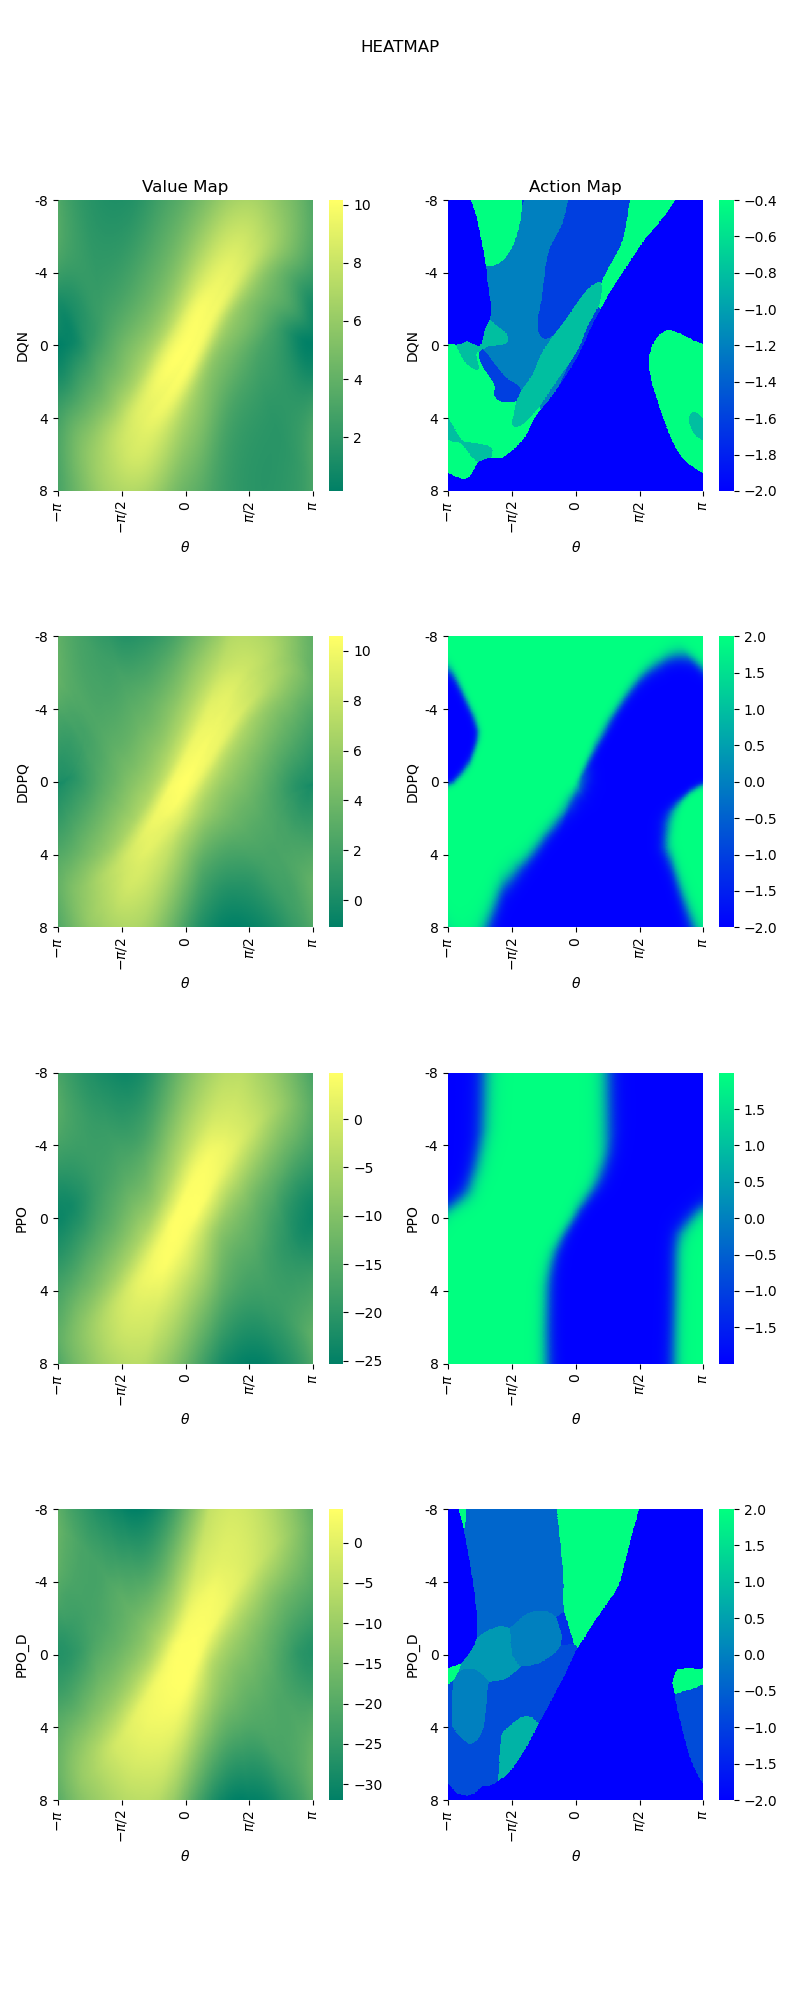
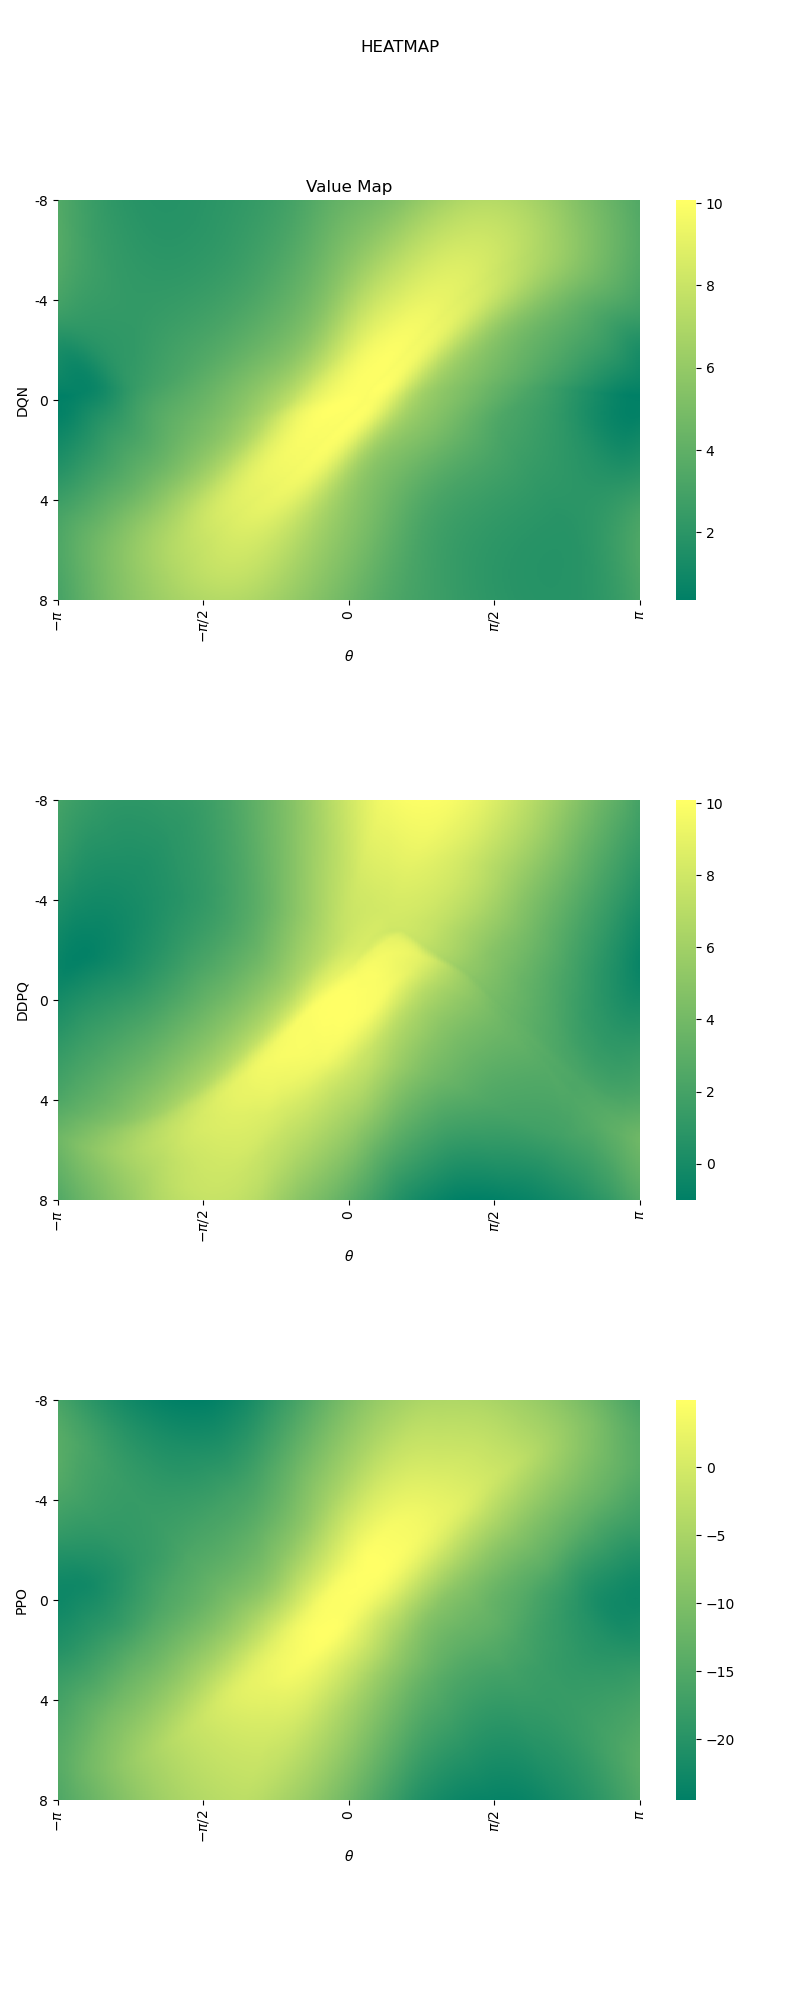
remove ppod

diff --git a/plot_heatmap.py b/plot_heatmap.py
@@ -34,11 +34,11 @@ def dqn_heatmap():
     net.load_state_dict(torch.load('param/dqn_net_params.pkl'))
     q = net(state)
     value_map = q.max(1)[0].view(y_pxl, x_pxl).detach().numpy()
-    action_map = q.max(1)[1].view(y_pxl, x_pxl).detach().numpy() / 10 * 4 - 2
+    # action_map = q.max(1)[1].view(y_pxl, x_pxl).detach().numpy() / 10 * 4 - 2
 
-    format(plt.subplot(421),value_map, algo_name= 'DQN', title ="Value Map")
+    format(plt.subplot(311),value_map, algo_name= 'DQN', title ="Value Map")
     # sns.heatmap(value_map, cmap="YlGnBu", linewidths=0.5, ax=plt.subplot(421))
-    format(plt.subplot(422),action_map, algo_name= 'DQN', title ="Action Map",cmap= plt.cm.winter)
+    # format(plt.subplot(322),action_map, algo_name= 'DQN', title ="Action Map",cmap= plt.cm.winter)
 
 def ddpg_heatmap():
     from ddpg import ActorNet, CriticNet
@@ -48,14 +48,14 @@ def ddpg_heatmap():
 
     anet = ActorNet()
     anet.load_state_dict(torch.load('param/ddpg_anet_params.pkl'))
-    action_map = anet(state).view(y_pxl, x_pxl).detach().numpy()
+    # action_map = anet(state).view(y_pxl, x_pxl).detach().numpy()
 
     cnet = CriticNet()
     cnet.load_state_dict(torch.load('param/ddpg_cnet_params.pkl'))
     value_map = cnet(state, anet(state)).view(y_pxl, x_pxl).detach().numpy()
 
-    format(plt.subplot(423), value_map, algo_name= 'DDPQ')
-    format(plt.subplot(424), action_map,  algo_name= 'DDPQ',cmap= plt.cm.winter)
+    format(plt.subplot(312), value_map, algo_name= 'DDPQ')
+    # format(plt.subplot(324), action_map,  algo_name= 'DDPQ',cmap= plt.cm.winter)
 
 
 def ppo_heatmap():
@@ -69,10 +69,10 @@ def ppo_heatmap():
 
     anet = ActorNet()
     anet.load_state_dict(torch.load('param/ppo_anet_params.pkl'))
-    action_map = anet(state)[0].view(y_pxl, x_pxl).detach().numpy()
+    # action_map = anet(state)[0].view(y_pxl, x_pxl).detach().numpy()
 
-    format(plt.subplot(425), value_map, algo_name= 'PPO')
-    format(plt.subplot(426), action_map, algo_name= 'PPO',cmap= plt.cm.winter)
+    format(plt.subplot(313), value_map, algo_name= 'PPO')
+    # format(plt.subplot(426), action_map, algo_name= 'PPO',cmap= plt.cm.winter)
 
 
 def ppo_d_heatmap():
@@ -95,7 +95,7 @@ def main():
     dqn_heatmap()
     ddpg_heatmap()
     ppo_heatmap()
-    ppo_d_heatmap()
+    # ppo_d_heatmap()
     plt.tight_layout()
     plt.subplots_adjust( bottom=.1,top=0.9,hspace = .5)
     plt.savefig('img/heatmap.png')

diff --git a/plot_line.py b/plot_line.py
@@ -11,18 +11,17 @@ ax.set_xticks(np.arange(0, 700, 100))
 ax.set_yticks(np.arange(-1500, 0, 200))
 TrainingRecord = namedtuple('TrainingRecord', ['ep', 'reward'])
 def draw_line(nwk):
-    with open('log/'+nwk+'_training_records.pkl', 'rb') as f:
-        training_log = pickle.load(f)
-
-    plt.plot([r.ep for r in training_log], [r.reward for r in training_log],label=nwk)
-    # sns.lineplot(data=training_log, x="ep", y="reward")
+    # with open('log/'+nwk+'_training_records.pkl', 'rb') as f:
+    #     training_log = pickle.load(f)
+    #
+    # plt.plot([r.ep for r in training_log], [r.reward for r in training_log],label=nwk)
+    reward_records = np.load('log/'+nwk+'_reward.np', allow_pickle=True)
+    sns.lineplot( data=reward_records[:,0],legend='brief', label=nwk)
 
 def main():
     draw_line('dqn')
     draw_line('ddpg')
     draw_line('ppo')
-    draw_line('ppo_d')
-
 
     plt.title('Algorithm plot')
     plt.xlabel('Episode')
@@ -34,4 +33,7 @@ def main():
     plt.show()
 
 if __name__ == '__main__':
+    sns.set_style("darkgrid")
     main()
+
+

diff --git a/plot_var.py b/plot_var.py
@@ -22,10 +22,10 @@ if __name__ == '__main__':
     normalized_ddpg = ddpg/np.linalg.norm(ddpg)
     sns.lineplot( data=normalized_ddpg,legend='brief', label='DDPG')
 
-    reward_records = np.load('log/ppod_reward.np', allow_pickle=True)
-    ppod = np.var(reward_records, axis=1)
-    normalized_ppod = ppod/np.linalg.norm(ppod)
-    sns.lineplot( data=normalized_ppod,legend='brief', label='PPOD')
+    # reward_records = np.load('log/ppod_reward.np', allow_pickle=True)
+    # ppod = np.var(reward_records, axis=1)
+    # normalized_ppod = ppod/np.linalg.norm(ppod)
+    # sns.lineplot( data=normalized_ppod,legend='brief', label='PPOD')
 
     plt.savefig("img/vars.png")
     plt.show()

diff --git a/backup/README.md b/backup/README.md
@@ -17,22 +17,12 @@ Note that in PPO using value function to estimate advantages, which is different
 ## Result
 The moving averaged episode rewards are shown as below:
 
-![dqn](img_BAK/dqn.png)
-![ddpg](img_BAK/ddpg.png)
-![ppo_d](img_BAK/ppo_d.png)
-![ppo](img_BAK/ppo.png)
+![plot_lines](img/lines.png)
 
 The heatmaps of value and action are shown as below:
 
-![dqn_heatmap](img_BAK/dqn_heatmap.png)
-![ddpg](img_BAK/ddpg_heatmap.png)
-![ppo_d_heatmap](img_BAK/ppo_d_heatmap.png)
-![ppo_heatmap](img_BAK/ppo_heatmap.png)
 
 From the results, we find that value-based algorithums are data-efficient for they are off-policy. Discretized action space is easier to train but the result looks
 ugly (trembling).  
 
 ## Reference
-- [Deep Reinforcement Learning with Double Q-learning](https://arxiv.org/abs/1509.06461)
-- [Continuous control with deep reinforcement learning](https://arxiv.org/abs/1509.02971)
-- [Proximal Policy Optimization Algorithms](https://arxiv.org/abs/1707.06347)
